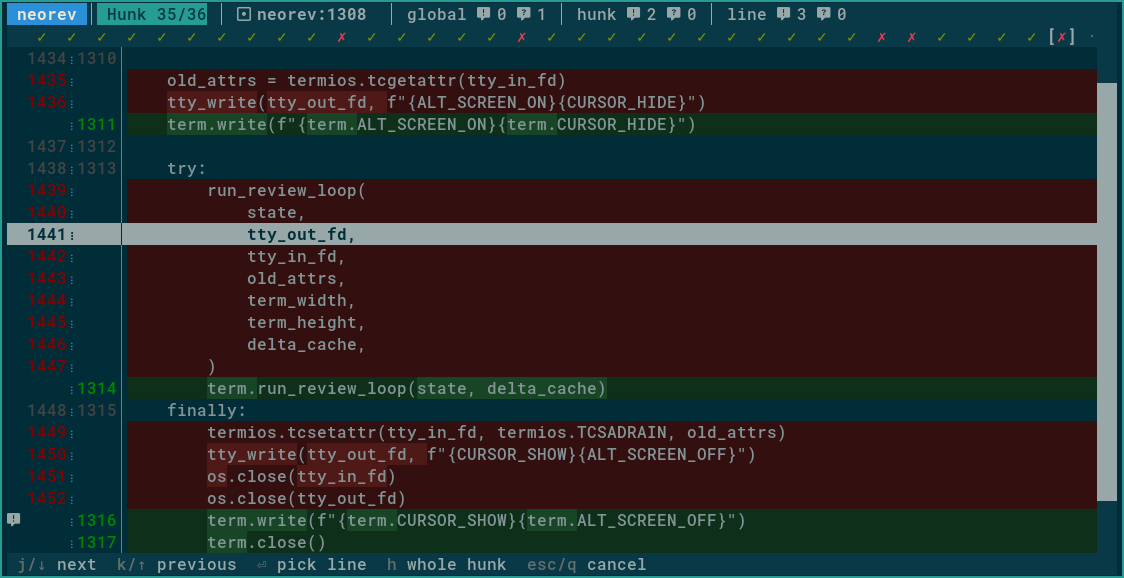
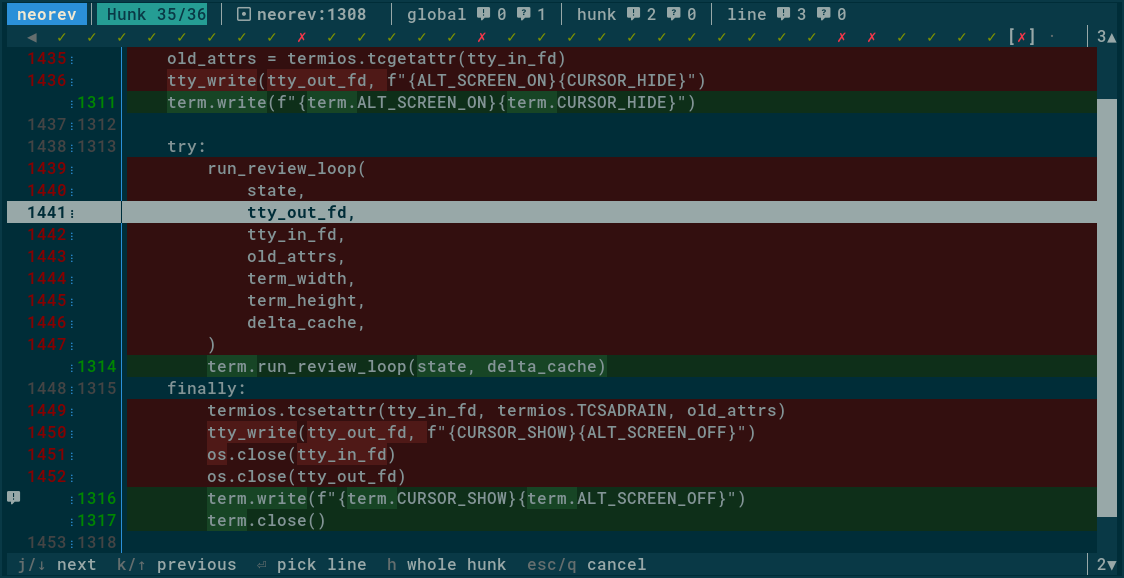
feat: show line counts on scrollbar

diff --git a/tests/test_ui.py b/tests/test_ui.py
@@ -20,6 +20,7 @@ from tests.helpers import (
     GLOBAL_NOTE_ADD_QUESTION_KEY,
     GLOBAL_NOTE_CREATED_TEXT,
     GLOBAL_NOTE_EDITED_TEXT,
+    LARGE_BODY_LINE_COUNT,
     LARGE_LINE_PREFIX,
     LINE_PICKER_MANY_LINES,
     NOTE_DELETE_KEY,
@@ -33,6 +34,7 @@ from tests.helpers import (
     TERM_WIDTH,
     TWO_FILE_DIFF,
     TWO_HUNK_DIFF,
+    WIDE_BODY_LINE_COUNT,
     WIDE_LINE_NUMBER_FORMAT,
     FakeEditor,
     ReviewDriver,
@@ -103,11 +105,39 @@ PICKER_NOTE_TEXT = "look at this line"
 HUNK_NOTE_EDITED_TEXT = "edited hunk note"
 PAINT_BACKLOG_LINES = 4000
 SHORT_HEIGHT = 10
+# Lines a hunk holds to fit the view at full height, but not at SHORT_HEIGHT.
+FITTING_HUNK_LINES = 12
+# Words a line holds to wrap in the picker, narrower than the diff view by its gutter.
+WRAPPING_HUNK_WORDS = 8
+# Lines whose wrapped height fits the diff view but not the picker, at TINY_WIDTH.
+WRAPPING_HUNK_LINES = 3
+# Lines whose wrapped height fits the picker but not a diff view the help panel narrows.
+HELP_WRAPPING_HUNK_LINES = 11
+# Rows a scrolling view holds: the terminal less the two chrome lines and the footer.
+VIEW_ROWS = TERM_HEIGHT - 3
+SHORT_VIEW_ROWS = SHORT_HEIGHT - 3
+# Rows of a large hunk left below the view, seen from its top.
+LARGE_ROWS_BELOW = LARGE_BODY_LINE_COUNT - VIEW_ROWS
+SHORT_ROWS_BELOW = LARGE_BODY_LINE_COUNT - SHORT_VIEW_ROWS
+# Rows a half-page scroll moves.
+HALF_PAGE_ROWS = VIEW_ROWS // 2
+SHORT_HALF_PAGE_ROWS = SHORT_VIEW_ROWS // 2
+# Half-page scrolls leaving a single digit above the view at SHORT_HEIGHT.
+ONE_DIGIT_SCROLLS = 3
+TINY_WIDTH = 30
 NARROW_WIDTH = 40
 WRAPPED_SCROLL_PRESSES = 4
 # Enough half-page scrolls to leave the row offset past the line count.
 DEEP_SCROLL_PRESSES = 12
+# Cursor moves leaving the picker list scrolled well past its top at SHORT_HEIGHT.
+PICKER_NEXT_PRESSES = 20
+# Rows the picker list then hides above, its cursor resting on the last row shown.
+PICKER_ROWS_ABOVE = PICKER_NEXT_PRESSES - SHORT_VIEW_ROWS + 1
 
+# Every widget of the chrome drawn from the review state.
+CHROME_SELECTOR = "TopBar, Markers, HiddenRows"
+# The key a vkey border draws to set a count apart from the row it sits on.
+COUNT_SEPARATOR = "▏"
 BRAND_TOKEN = "neorev"
 HUNK_TOKEN = "Hunk"
 CURSOR_LINE_TOKEN = "import os"
@@ -882,6 +912,154 @@ class TestFooter(ReviewTestCase):
             self.assertEqual(footer_hints(review), GLOBAL_NOTE_FOOTER_HINTS)
 
 
+class TestHiddenRows(ReviewTestCase):
+    """Tests for the counts of the rows a scrolling view keeps out of sight."""
+
+    async def test_the_top_of_a_hunk_is_counted_below_only(self) -> None:
+        """Verify a hunk seen from its top counts below, under its scrollbar."""
+        async with review_session(make_large_diff()) as review:
+            above = hidden_rows(review, neorev.ScrollEdge.ABOVE)
+            below = hidden_rows(review, neorev.ScrollEdge.BELOW)
+            self.assertFalse(above.display)
+            self.assertTrue(below.display)
+            self.assertEqual(painted_text(below), below_text(LARGE_ROWS_BELOW))
+            scrollbar = review.app.query_one(neorev.Diff).vertical_scrollbar
+            self.assertEqual(below.region.right, scrollbar.region.right)
+
+    async def test_scrolling_moves_rows_from_below_to_above(self) -> None:
+        """Verify a scroll gives the count above what it takes from the one below."""
+        async with review_session(make_large_diff()) as review:
+            await review.press(SCROLL_DOWN_KEY)
+            above = hidden_rows(review, neorev.ScrollEdge.ABOVE)
+            below = hidden_rows(review, neorev.ScrollEdge.BELOW)
+            self.assertEqual(painted_text(above), above_text(HALF_PAGE_ROWS))
+            self.assertEqual(
+                painted_text(below), below_text(LARGE_ROWS_BELOW - HALF_PAGE_ROWS)
+            )
+            self.assertEqual(above.region.right, below.region.right)
+
+    async def test_the_end_of_a_hunk_is_counted_above_only(self) -> None:
+        """Verify a hunk scrolled to its end counts above and no longer below."""
+        async with review_session(make_large_diff()) as review:
+            for _ in range(DEEP_SCROLL_PRESSES):
+                await review.press(SCROLL_DOWN_KEY)
+            above = hidden_rows(review, neorev.ScrollEdge.ABOVE)
+            below = hidden_rows(review, neorev.ScrollEdge.BELOW)
+            self.assertEqual(painted_text(above), above_text(LARGE_ROWS_BELOW))
+            self.assertFalse(below.display)
+
+    async def test_wrapped_lines_are_counted_by_the_row(self) -> None:
+        """Verify a hunk of wrapping lines counts the rows it draws, not its lines."""
+        async with review_session(make_wide_diff()) as review:
+            below = hidden_rows(review, neorev.ScrollEdge.BELOW)
+            self.assertGreater(below.rows(), WIDE_BODY_LINE_COUNT)
+
+    async def test_the_counts_follow_the_hunk(self) -> None:
+        """Verify moving to a hunk that fits takes both counts away, and back."""
+        diff = make_large_diff() + make_large_diff(
+            FITTING_HUNK_LINES, name=SECOND_LARGE_FILE_NAME
+        )
+        async with review_session(diff) as review:
+            await review.press(NEXT_KEY)
+            self.assertFalse(hidden_rows(review, neorev.ScrollEdge.ABOVE).display)
+            self.assertFalse(hidden_rows(review, neorev.ScrollEdge.BELOW).display)
+            await review.press(PREVIOUS_KEY)
+            below = hidden_rows(review, neorev.ScrollEdge.BELOW)
+            self.assertTrue(below.display)
+            self.assertEqual(painted_text(below), below_text(LARGE_ROWS_BELOW))
+
+    async def test_shrinking_the_view_brings_the_count_in(self) -> None:
+        """Verify a hunk that stops fitting on a resize gets counted."""
+        async with review_session(make_large_diff(FITTING_HUNK_LINES)) as review:
+            self.assertFalse(hidden_rows(review, neorev.ScrollEdge.BELOW).display)
+            await review.resize(TERM_WIDTH, SHORT_HEIGHT)
+            below = hidden_rows(review, neorev.ScrollEdge.BELOW)
+            self.assertTrue(below.display)
+            self.assertEqual(
+                painted_text(below), below_text(FITTING_HUNK_LINES - SHORT_VIEW_ROWS)
+            )
+
+    async def test_a_shorter_picker_counts_the_rows_it_loses(self) -> None:
+        """Verify a resize under the open picker recounts what its list hides."""
+        async with review_session(make_large_diff()) as review:
+            await review.press(QUESTION_KEY)
+            await review.resize(TERM_WIDTH, SHORT_HEIGHT)
+            below = hidden_rows(review, neorev.ScrollEdge.BELOW)
+            self.assertEqual(painted_text(below), below_text(SHORT_ROWS_BELOW))
+
+    async def test_the_picker_counts_the_rows_its_cursor_leaves_above(self) -> None:
+        """Verify the picker cursor leaving the top counts the rows its list hides."""
+        size = (TERM_WIDTH, SHORT_HEIGHT)
+        async with review_session(make_large_diff(), size=size) as review:
+            await review.press(QUESTION_KEY)
+            await review.press(*([NEXT_KEY] * PICKER_NEXT_PRESSES))
+            above = hidden_rows(review, neorev.ScrollEdge.ABOVE)
+            self.assertEqual(painted_text(above), above_text(PICKER_ROWS_ABOVE))
+
+    async def test_the_count_widens_with_another_digit(self) -> None:
+        """Verify a count scrolled into two digits is not drawn cut short."""
+        size = (TERM_WIDTH, SHORT_HEIGHT)
+        async with review_session(make_large_diff(), size=size) as review:
+            for _ in range(ONE_DIGIT_SCROLLS):
+                await review.press(SCROLL_DOWN_KEY)
+            above = hidden_rows(review, neorev.ScrollEdge.ABOVE)
+            rows = SHORT_HALF_PAGE_ROWS * ONE_DIGIT_SCROLLS
+            self.assertEqual(painted_text(above), above_text(rows))
+            await review.press(SCROLL_DOWN_KEY)
+            self.assertEqual(
+                painted_text(above), above_text(rows + SHORT_HALF_PAGE_ROWS)
+            )
+
+    async def test_the_picker_counts_what_only_it_scrolls(self) -> None:
+        """Verify a hunk the diff view holds is counted when the picker wraps it."""
+        diff = make_wide_diff(WRAPPING_HUNK_LINES, WRAPPING_HUNK_WORDS)
+        async with review_session(diff, size=(TINY_WIDTH, SHORT_HEIGHT)) as review:
+            self.assertFalse(review.app.query_one(neorev.Diff).show_vertical_scrollbar)
+            await review.press(QUESTION_KEY)
+            options = review.app.screen.query_one(neorev.PickerList)
+            self.assertTrue(options.show_vertical_scrollbar)
+            self.assertTrue(hidden_rows(review, neorev.ScrollEdge.BELOW).display)
+
+    async def test_the_help_panel_brings_no_count_to_the_picker(self) -> None:
+        """Verify a diff view the help panel narrows brings no count to the picker."""
+        diff = make_wide_diff(HELP_WRAPPING_HUNK_LINES, WRAPPING_HUNK_WORDS)
+        async with review_session(diff) as review:
+            await review.press(HELP_KEY)
+            self.assertTrue(review.app.query_one(neorev.Diff).show_vertical_scrollbar)
+            await review.press(QUESTION_KEY)
+            options = review.app.screen.query_one(neorev.PickerList)
+            self.assertFalse(options.show_vertical_scrollbar)
+            self.assertFalse(hidden_rows(review, neorev.ScrollEdge.BELOW).display)
+
+    async def test_a_picker_holding_the_whole_hunk_shows_no_scrollbar(self) -> None:
+        """Verify a picker with nothing to scroll shows neither bar nor count."""
+        async with review_session(SIMPLE_DIFF) as review:
+            await review.press(QUESTION_KEY)
+            options = review.app.screen.query_one(neorev.PickerList)
+            self.assertFalse(options.show_vertical_scrollbar)
+            self.assertFalse(hidden_rows(review, neorev.ScrollEdge.BELOW).display)
+
+
+class TestModalChrome(ReviewTestCase):
+    """Tests for what the review screen stops drawing while a modal covers it."""
+
+    async def test_a_modal_hides_the_counts_and_the_diff_scrollbar(self) -> None:
+        """Verify a modal drops the counts and the bar, leaving the diff width put."""
+        async with review_session(make_large_diff()) as review:
+            await review.press(SCROLL_DOWN_KEY)
+            diff = review.app.query_one(neorev.Diff)
+            scrollbar = diff.vertical_scrollbar
+            width = diff.scrollable_content_region.width
+            self.assertTrue(scrollbar.region)
+            await review.press(NOTES_KEY)
+            self.assertEqual(counts_shown(review), [False, False])
+            self.assertFalse(scrollbar.region)
+            self.assertEqual(diff.scrollable_content_region.width, width)
+            await review.press(CANCEL_KEY)
+            self.assertEqual(counts_shown(review), [True, True])
+            self.assertTrue(scrollbar.region)
+
+
 class TestHelpPanel(ReviewTestCase):
     """Tests for the key help."""
 
@@ -961,6 +1139,7 @@ class TestEmptyDiff(ReviewTestCase):
             self.assertTrue(review.state.is_empty)
             self.assertFalse(review.app.query_one(neorev.Diff).display)
             self.assertFalse(review.app.query_one(neorev.TopBar).display)
+            self.assertFalse(review.app.query_one(neorev.MarkerRow).display)
             placeholder = review.app.query_one(f"#{neorev.EMPTY_ID}", Static)
             self.assertTrue(placeholder.display)
             self.assertEqual(rendered_text(placeholder), neorev.EMPTY_DIFF_WAIT_MESSAGE)
@@ -988,10 +1167,12 @@ class TestTerminalColours(ReviewTestCase):
 
     async def test_chrome_colours_come_from_the_palette(self) -> None:
         """Verify the chrome names palette entries rather than absolute colours."""
-        async with review_session(SIMPLE_DIFF) as review:
-            for widget_type in (neorev.TopBar, neorev.Markers):
-                with self.subTest(widget=widget_type.__name__):
-                    for segment in rendered_segments(review.app.query_one(widget_type)):
+        async with review_session(make_large_diff()) as review:
+            await review.press(SCROLL_DOWN_KEY)
+            chrome = review.app.screen.query(CHROME_SELECTOR).nodes
+            for index, widget in enumerate(chrome):
+                with self.subTest(widget=f"{type(widget).__name__} {index}"):
+                    for segment in rendered_segments(widget):
                         self.assertTrue(is_palette_style(segment.style), segment.text)
 
     async def test_only_the_brand_carries_the_highlight(self) -> None:
@@ -1024,11 +1205,13 @@ class TestTerminalColours(ReviewTestCase):
 
     async def test_chrome_sits_on_its_own_background(self) -> None:
         """Verify the bars framing the diff are set off from it."""
-        async with review_session(SIMPLE_DIFF) as review:
+        async with review_session(make_large_diff()) as review:
+            await review.press(SCROLL_DOWN_KEY)
             widgets = [
                 review.app.query_one(neorev.TopBar),
                 review.app.query_one(neorev.Markers),
                 review.app.query_one(Footer),
+                *review.app.query(neorev.HiddenRows),
                 *review.app.query(FooterKey),
             ]
             for index, widget in enumerate(widgets):
@@ -1068,6 +1251,37 @@ def footer_hints(review: ReviewDriver) -> list[tuple[str, str]]:
     return [
         (key.key_display, key.description) for key in review.app.screen.query(FooterKey)
     ]
+
+
+def hidden_rows(
+    review: ReviewDriver,
+    edge: neorev.ScrollEdge,
+) -> neorev.HiddenRows:
+    """Return the count the visible screen carries past *edge*."""
+    counts = review.app.screen.query(neorev.HiddenRows).nodes
+    return next(count for count in counts if count.edge is edge)
+
+
+def counts_shown(review: ReviewDriver) -> list[bool]:
+    """Return whether each count of the review screen is drawn, above then below."""
+    screen = review.app.screen_stack[0]
+    return [count.visible for count in screen.query(neorev.HiddenRows).nodes]
+
+
+def painted_text(count: neorev.HiddenRows) -> str:
+    """Return the text *count* last painted, its separator included."""
+    strips = count.render_lines(count.region.reset_offset)
+    return "".join(segment.text for strip in strips for segment in strip)
+
+
+def above_text(rows: int) -> str:
+    """Return the text the count of *rows* hidden above paints."""
+    return f"{COUNT_SEPARATOR}{rows}{neorev.SCROLL_UP_ICON}"
+
+
+def below_text(rows: int) -> str:
+    """Return the text the count of *rows* hidden below paints."""
+    return f"{COUNT_SEPARATOR}{rows}{neorev.SCROLL_DOWN_ICON}"
 
 
 def is_palette_style(style: Style | None) -> bool:

diff --git a/tests/test_watch.py b/tests/test_watch.py
@@ -20,6 +20,7 @@ from tests.helpers import (
     TWO_HUNK_DIFF,
     ReviewDriver,
     ReviewTestCase,
+    make_large_diff,
     neorev,
     review_session,
 )
@@ -34,6 +35,7 @@ APPROVE_KEY = "a"
 QUIT_KEY = "q"
 FLAG_KEY = "f"
 CANCEL_KEY = "escape"
+SCROLL_DOWN_KEY = "ctrl+d"
 DEBOUNCE_TIMEOUT = 0.01
 DEBOUNCE_SETTLE = 0.2
 # Long enough for a watcher that ignores the shutdown to spawn inotifywait.
@@ -63,6 +65,11 @@ async def reload_with(review: ReviewDriver, diff_text: str) -> None:
     ):
         review.app.reload()
     await review.settle()
+
+
+def counts_shown(review: ReviewDriver) -> list[bool]:
+    """Return whether each count of *review* is drawn, above then below."""
+    return [count.display for count in review.app.query(neorev.HiddenRows).nodes]
 
 
 def watch_session_args(output: str) -> argparse.Namespace:
@@ -251,6 +258,15 @@ class TestWatchReload(ReviewTestCase):
             await reload_with(review, SIMPLE_DIFF)
             self.assertEqual(len(review.state.hunks), 1)
             self.assertTrue(review.app.query_one(neorev.Diff).display)
+
+    async def test_a_reload_to_an_empty_diff_takes_the_counts_away(self) -> None:
+        """Verify an emptied review leaves no count in the chrome it scrolled."""
+        async with watch_review(make_large_diff()) as (review, _):
+            await review.press(SCROLL_DOWN_KEY)
+            self.assertEqual(counts_shown(review), [True, True])
+            await reload_with(review, "")
+            self.assertTrue(review.state.is_empty)
+            self.assertEqual(counts_shown(review), [False, False])
 
     async def test_reload_waits_for_an_open_modal(self) -> None:
         """Verify a change under an open picker is held back until it closes."""
